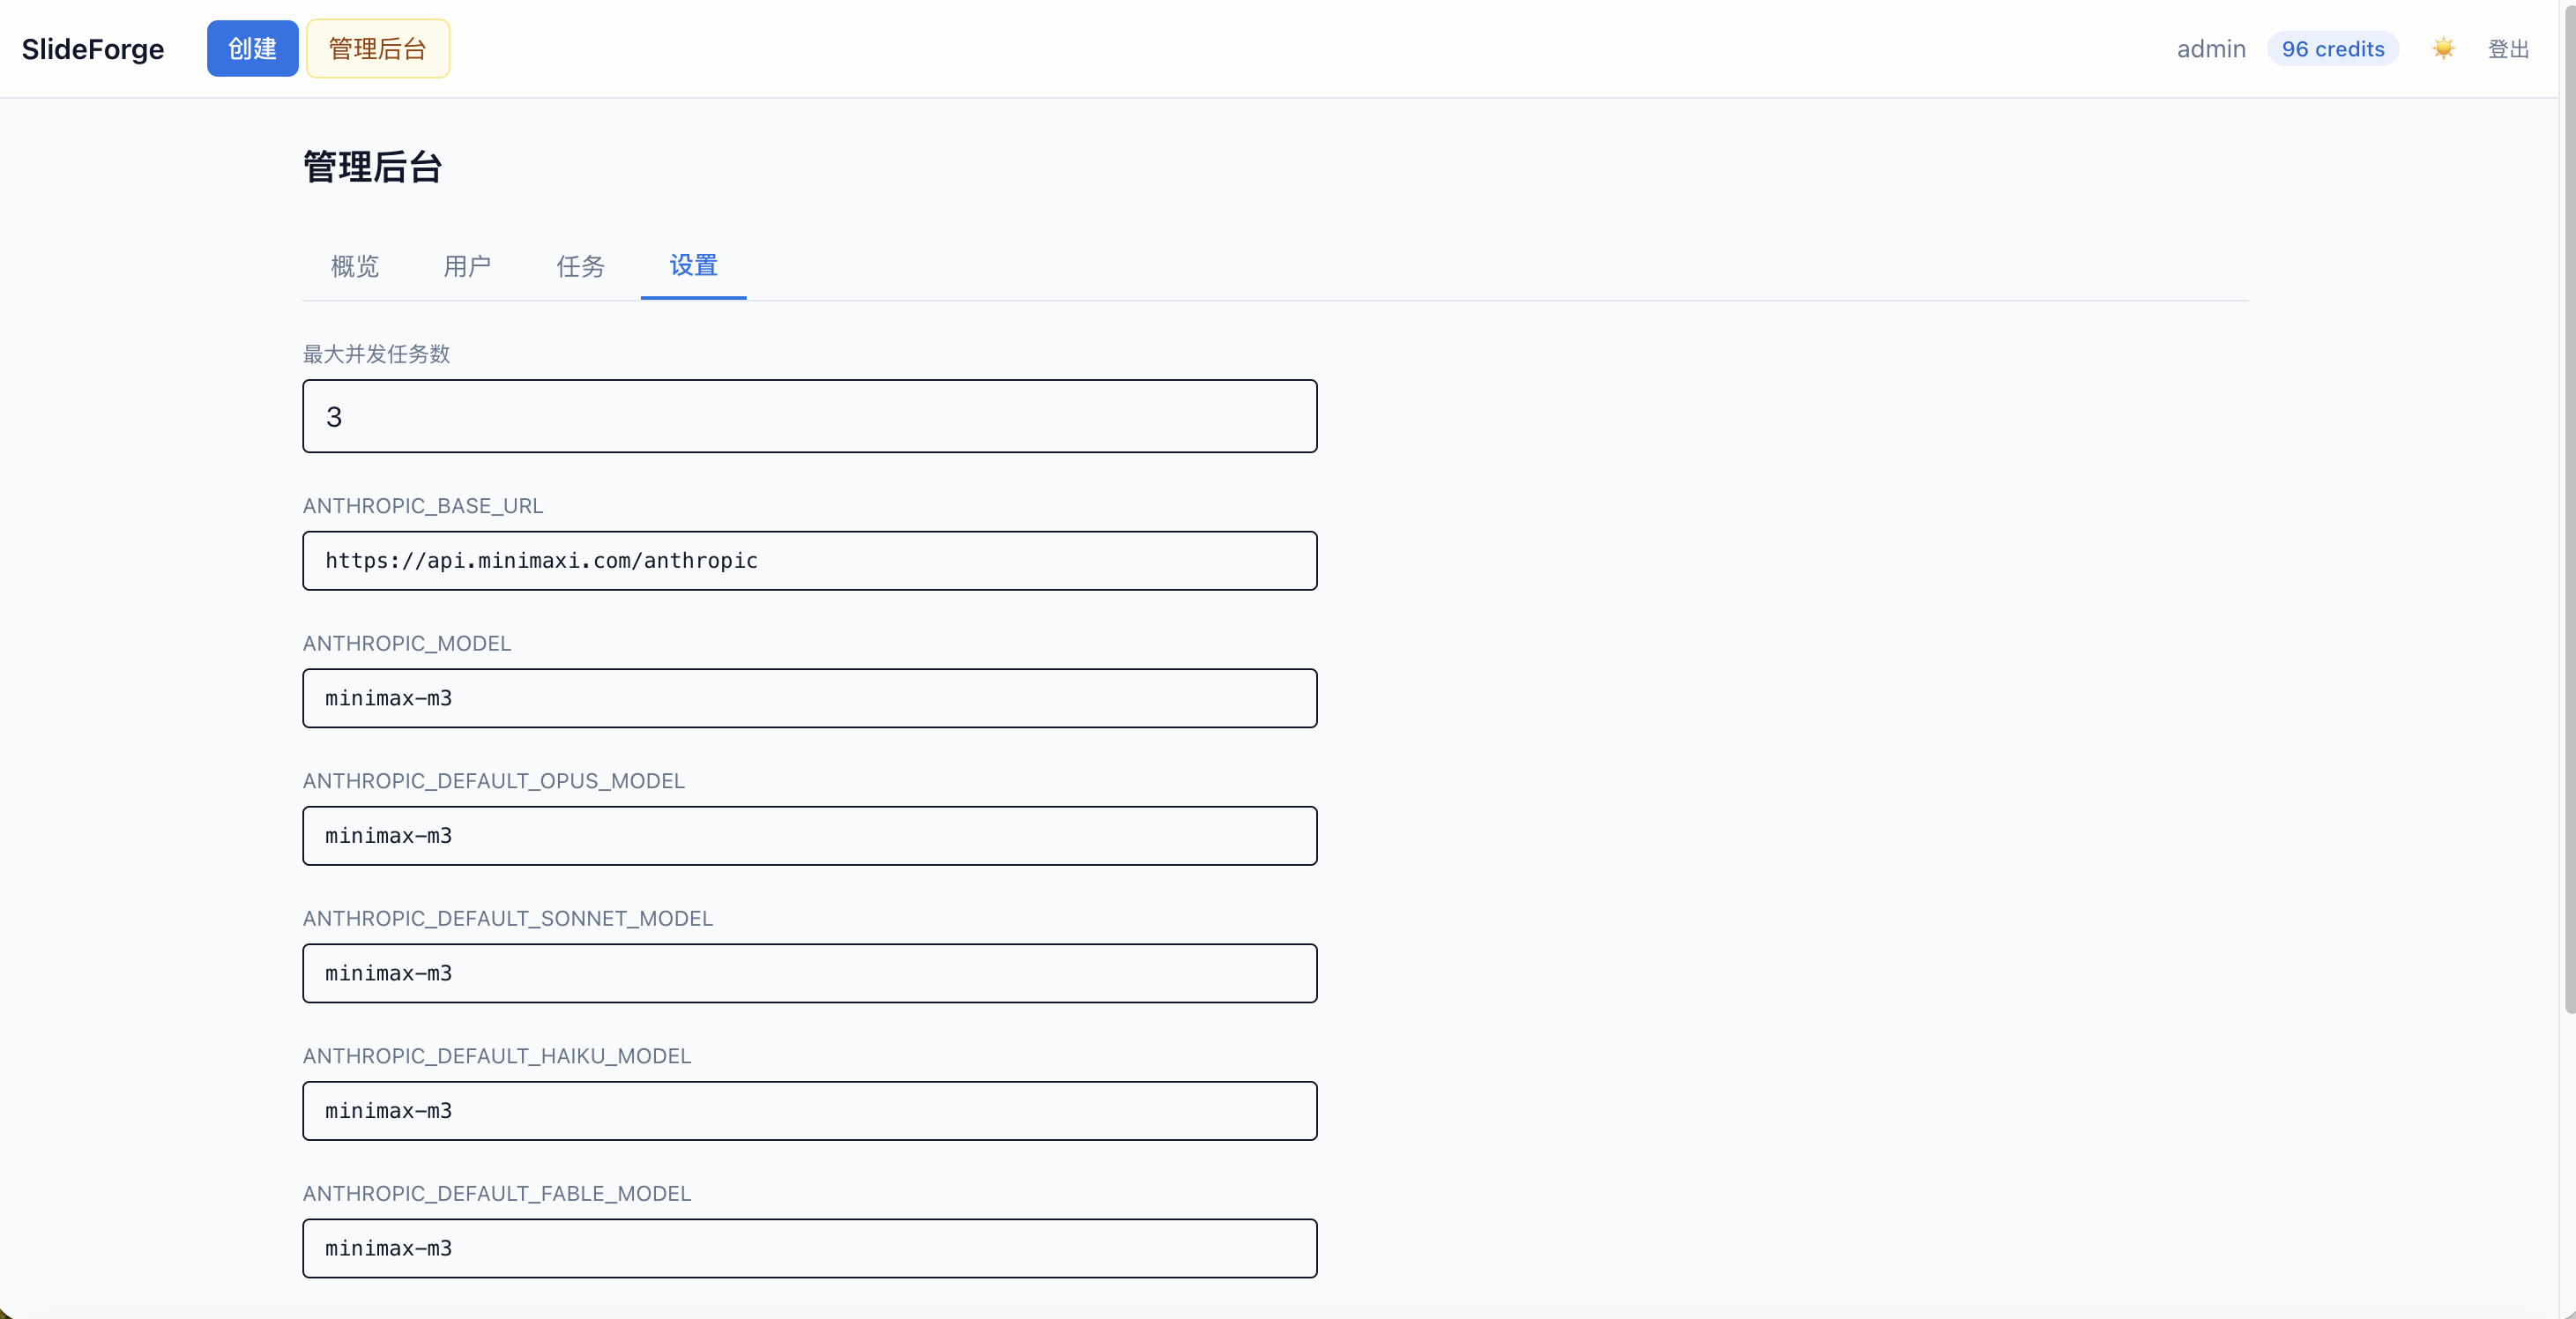
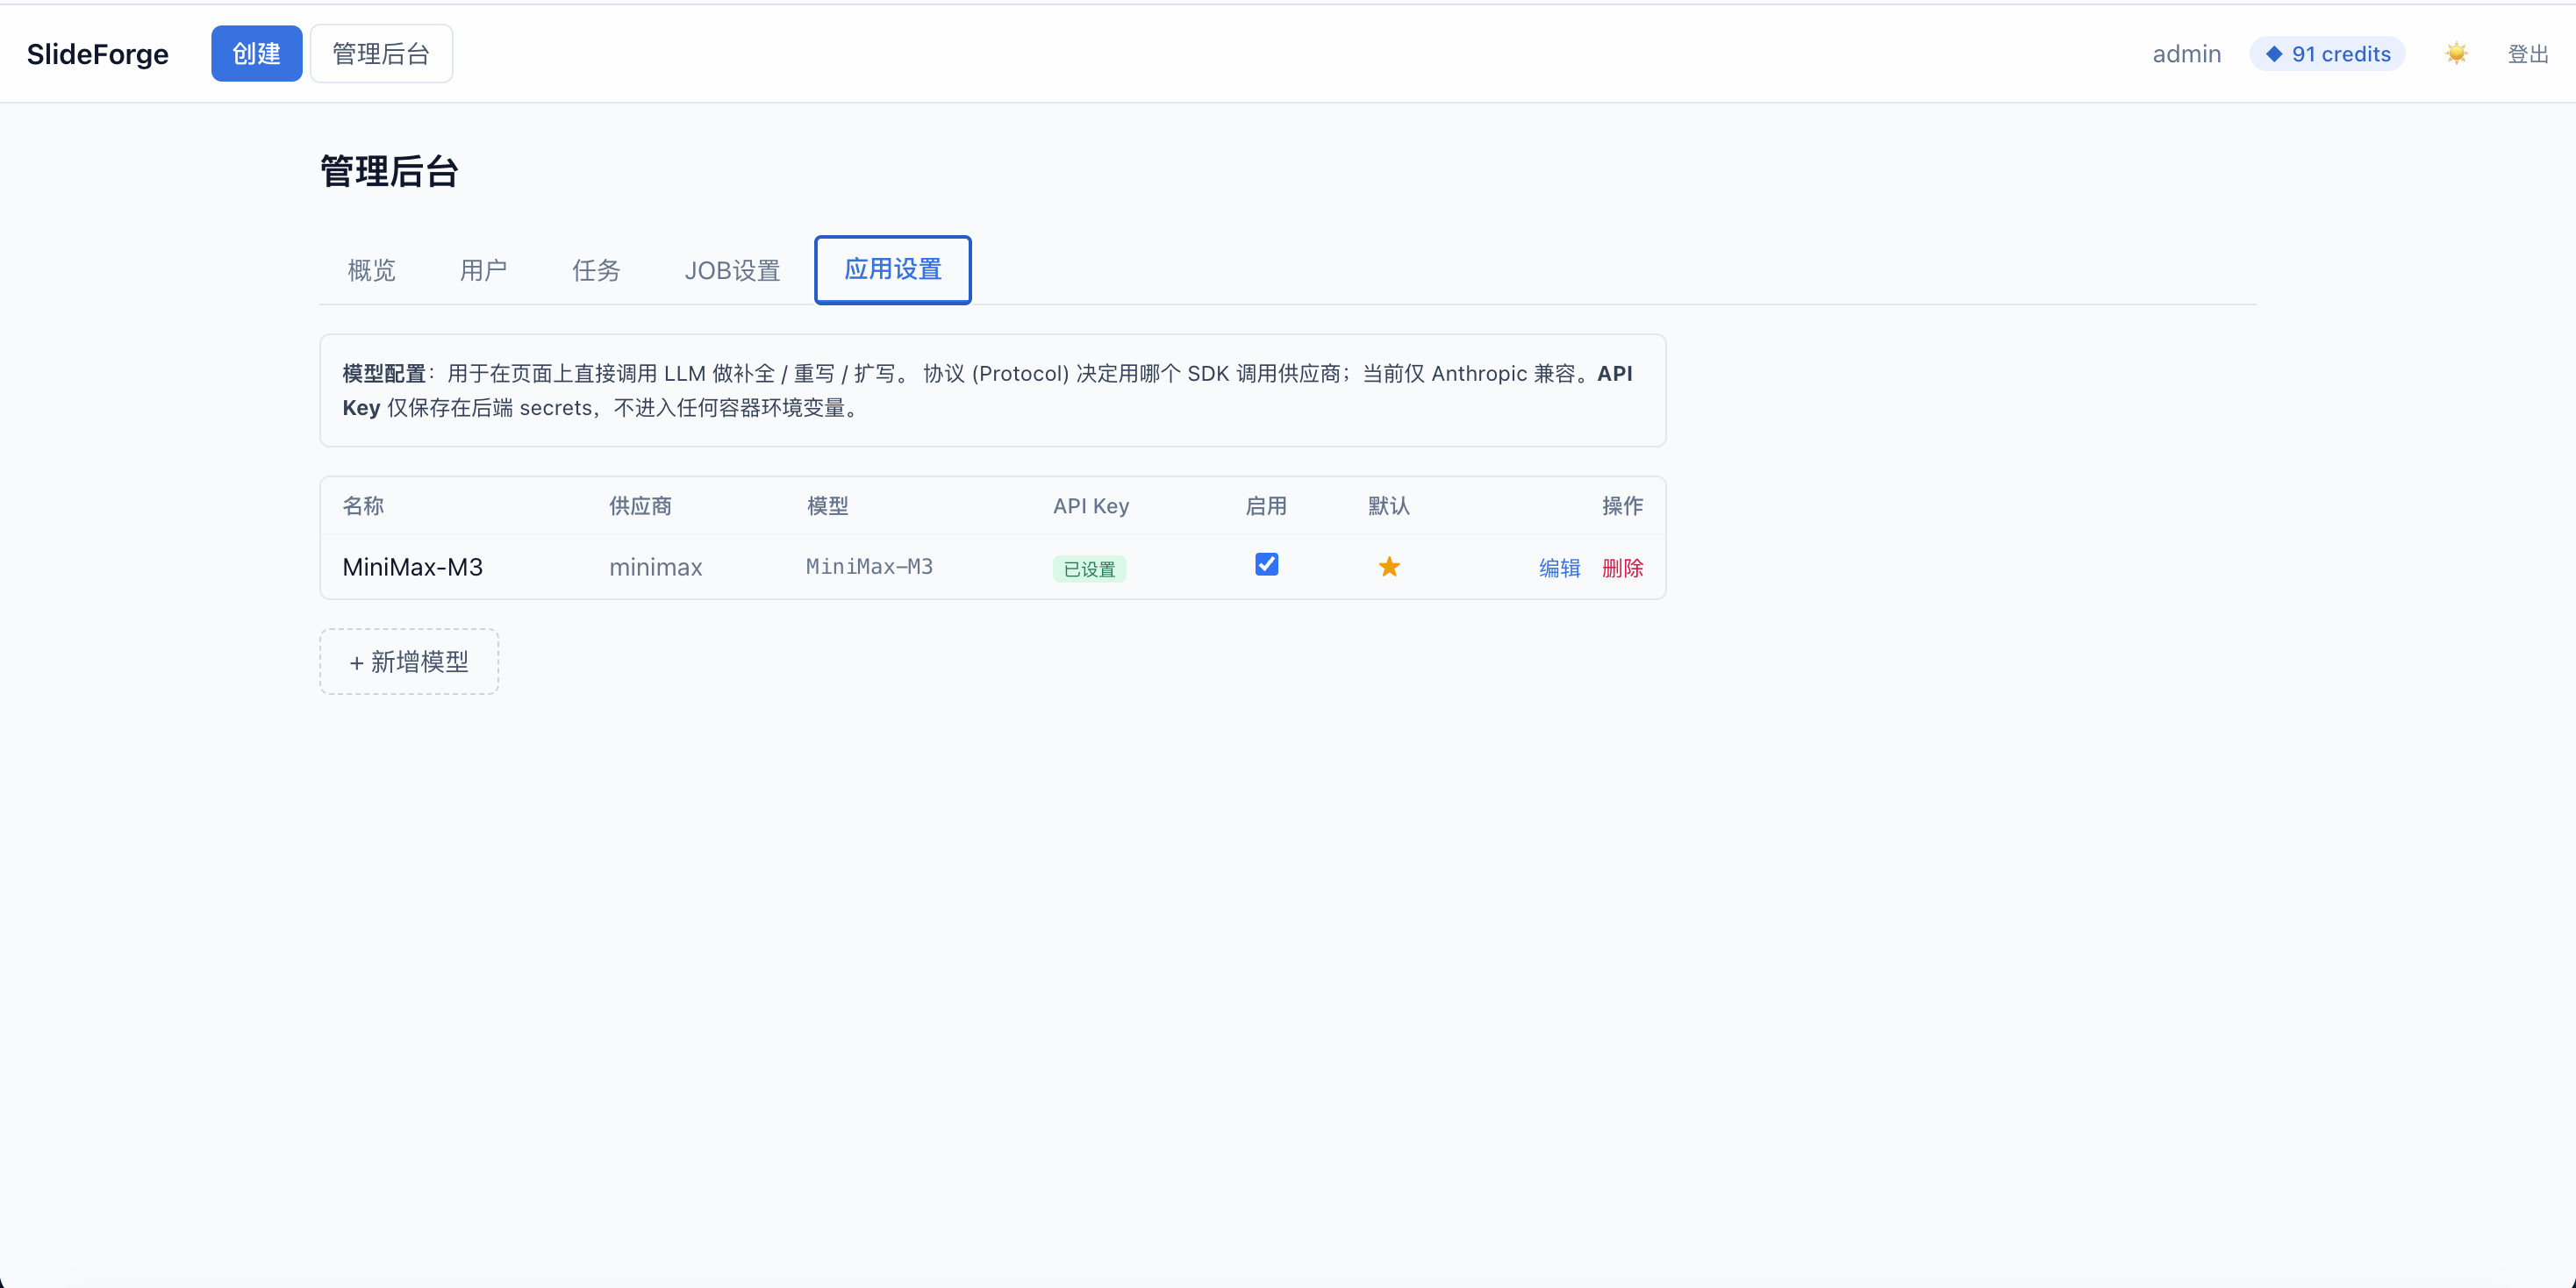
docs: cover NewJobPage composer, app settings, error humanize
UI changes (refreshed screenshots):
- list.png: segmented status filter + count in title
- admin.png: new '应用设置' tab with model config table

README updates reflecting recent code:
- 作品列表: capsule status filter, count in title, SkeletonCard
- 创建任务: 3-section collapsible composer (内容源/视觉调性/素材策略)
  + 高级 drawer; visual_style chip grid; ✨ AI 优化/智能填充
- 管理后台: 5 tabs (新增「应用设置 → 模型配置」)
- 错误文案友好化: humanize_error mapping table
- 失败任务原地重试: POST /api/jobs/{id}/retry
- Admin 管理后台 body: tab 列表同步更新
- 生成行为: 结构化 JobOptions 14 字段说明

diff --git a/README.md b/README.md
@@ -36,7 +36,7 @@
 
 ![作品列表](./images/list.png)
 
-登录后的主页，以卡片形式展示已生成的 PPT，支持搜索和按状态筛选（运行中 / 完成 / 失败）。顶部可进入「创建」与「管理后台」。
+登录后的主页，以卡片形式展示已生成的 PPT。顶部胶囊式状态筛选器可在「全部 / 运行中 / 完成 / 失败」之间切换，标题右侧实时显示作品总数（筛选时变为 `已显示/总数`）。搜索框按项目名 / prompt 模糊匹配。初始加载时显示 6 张 `SkeletonCard` 骨架占位，避免空白闪烁。顶部可进入「创建」与「管理后台」。
 
 ### 卡片悬停与预览
 
@@ -47,6 +47,8 @@
 - **预览**：打开全屏预览（见下图），无需进入详情页即可快速翻看每一页
 - **下载**：直接下载 `.pptx` 文件，等价于详情页的「下载 PPTX」
 
+失败的任务还会显示一行**人话化错误原因**（见 [错误文案友好化](#错误文案友好化)），并提供「重试」入口，无需进入详情页即可原地重跑。
+
 ![预览弹窗](./images/preview.png)
 
 预览弹窗中央展示当前页大图，底部缩略图条可点击跳转；按 `Esc`、点击遮罩或右上角关闭按钮退出。无需等待详情页加载，方便在列表里快速比对多份产物。
@@ -55,21 +57,67 @@
 
 ![创建任务](./images/new.png)
 
-填写项目名称、上传参考素材（PDF / DOCX / PPTX 等）、内容描述；可选语言、场景、受众、语调、页数，提交后启动 agent 生成。
+「创建任务」页采用**三段式可折叠 + 高级抽屉**的结构，把 14 个原本塞成一坨的生成选项拆成渐进式呈现：
+
+| 段落 | 默认 | 包含 |
+|------|------|------|
+| ① 内容源 | 展开 | 项目名 · 主题输入 / 文档输入 切换 · 核心主题（必填）· ✨ **智能填充** · 章节大纲 · 重点强调 |
+| ② 视觉调性 | 折叠 | 基础设置（语言/场景/受众/语调/页数）· ✨ AI 优化 · 视觉风格 chip 网格 · 配色（mode + 品牌色 + 行业） |
+| ③ 素材策略 | 折叠 | ✨ AI 优化 · 图片策略（卡片网格） |
+| 高级（⚙） | 折叠 | 画布 · 叙事模式 · 图标策略 · 公式渲染 · 是否生成演讲者备注 · 长 deck 分阶段模式 |
+
+**✨ 智能填充 / AI 优化**：点一下就用「应用设置」里配的 LLM 把主题（或上传的文档）补全成「大纲 + 重点 + 设计偏好」，避免你逐项点选。前提是 Admin 已在「应用设置 → 模型配置」里配好默认模型并填了 API Key（见下文）。
+
+**视觉风格 chip 网格**（10 种预设 + `auto`）：蓝图 · 工程方案 · 卡通绘本 · 莫兰迪 · 黑白线稿 · 杂志风 · 国风水墨 · 玻璃拟态 · 极简白 · 商务深色。「auto」由 agent 自主挑选，避免默认扁平卡片网格。
 
 ### 任务详情
 
 ![任务详情](./images/detail.png)
 
-点击作品进入详情页，查看任务状态、费用、生成选项；通过 Tab 切换概览、原始输出、时间线、产物；可下载 `.pptx`，底部展示 Agent 各阶段执行进度。
+点击作品进入详情页，查看任务状态、费用、生成选项；通过 Tab 切换概览、原始输出、时间线、产物；可下载 `.pptx`，底部展示 Agent 各阶段执行进度。失败原因按友好化文案展示（见下一节）。
 
 ### 管理后台
 
 ![管理后台](./images/admin.png)
 
-管理员专用（`#/admin`），含概览、用户、任务、设置四个 Tab。设置页可配置并发上限、Docker runner 参数，以及 Claude / Cloud 所需的 `ANTHROPIC_*` 模型与 API 信息；用户与任务管理见下文 [Admin 管理后台](#admin-管理后台) 章节。
+管理员专用（`#/admin`），含 5 个 Tab：
 
-## 前置要求
+| Tab | 说明 |
+|---|---|
+| 概览 | 任务统计、活跃用户、失败任务 |
+| 用户 | 改 role / quota / 重置密码 |
+| 任务 | 全站任务列表、取消、标记失败、手动退款 |
+| JOB 设置 | **每 job 一个 Docker 容器** 的运行参数（并发上限、镜像、内存、CPU、超时） |
+| 应用设置 | **新增** — LLM 模型配置、API Key、协议、启停与默认标记 |
+
+「应用设置 → 模型配置」是后续 AI 智能填充、提示词优化的依赖：
+
+- 支持多个 provider（minimax、deepseek），**当前仅 Anthropic Messages 协议**
+- 表单内联增删改；API Key 仅存于后端 secrets（不进入容器环境变量），列表里只显示「已设置 / 未设置」徽标
+- 校验：name ≤ 64 字符、unique、http(s) base_url、至多 32 个模型、至多 1 个默认
+- 修改后**仅对新启动的请求生效**
+
+详见下文 [Admin 管理后台](#admin-管理后台) 章节与 `Docs/development.md`。
+
+## 错误文案友好化
+
+任务跑挂时，数据库里存的是机器字符串（`stop_reason=...`、`auto-resume bailed`、`docker image ... not found`、`watchdog: ...`）。`backend/runner/errors.py::humanize_error` 在写库前把它们翻成**人话**，UI 直接展示友好文案而不是堆栈：
+
+| 机器串（前缀/子串） | 友好文案 |
+|---|---|
+| `auto-resume bailed` | AI 未生成有效内容，请调整需求后重试 |
+| `claude CLI 失败` / `auto-resume claude CLI 失败` | AI 服务调用失败，请稍后重试 |
+| `stop_reason=...` | AI 生成中断，请重试 |
+| `runner exception:` / `resume exception:` | 生成过程异常，请重试 |
+| `watchdog:` | 生成超时未响应，请重试 |
+| `server restart interrupted` | 服务重启中断了任务，请重试 |
+| `docker daemon is not available` / `docker image ... not found` / ... | 运行环境未就绪，请联系管理员 |
+
+未命中任何模式的串**原样透传**（不吞错），对人话已做幂等处理。错误信息在卡片、详情页、Admin 任务列表三处一致展示。
+
+## 失败任务原地重试
+
+`POST /api/jobs/{id}/retry`（仅限 `failed` / `cancelled` 状态）原地重跑，**沿用原始 prompt + 选项**，不必重新填表。WebUI 在「我的作品」卡片底部、任务详情页顶部各提供一个「重试」入口；credits 不足时按钮 disabled。重试在数据层复用同一 job_id、events 表追加新阶段记录，旧失败原因保留在事件流中可回看。
 
 | 依赖 | 版本建议 | 用途 |
 |------|----------|------|
@@ -226,11 +274,12 @@ uvicorn 进程（API 层）
 首次启动会自动创建默认管理员：**账号 `admin`，密码 `admin`**（已存在则不覆盖密码）。
 
 1. 登录后侧边栏出现「管理后台」，或直接访问 `#/admin`
-2. 可在设置页配置：
-   - **最大并发审核任务数 / 启动容器数上限**（1–50）
-   - Docker runner（镜像、内存、CPU、超时等）
-   - **Claude Code 容器环境变量**（`ANTHROPIC_*` 模型/API、Secrets、自定义 env）
-   - Watchdog 参数
+2. 5 个 Tab：
+   - **概览**：任务统计、活跃用户、失败任务
+   - **用户**：改 role / quota / 重置密码
+   - **任务**：全站任务列表、取消、标记失败、手动退款、原地重试
+   - **JOB 设置**（原「设置」）：最大并发数（1–50）、Docker runner（镜像、内存、CPU、超时）、**Claude Code 容器环境变量**（`ANTHROPIC_*` 模型/API、Secrets、自定义 env）、Watchdog 参数
+   - **应用设置**（新增）：LLM **模型配置**（provider / protocol / base_url / model / API Key / 启停 / 默认），是「✨ 智能填充」「AI 优化」「提示词优化」等 Web 端 LLM 调用的来源
 3. 用户管理：改 role/quota/重置密码
 4. 任务管理：全站列表、取消、标记失败、手动退款
 
@@ -257,7 +306,21 @@ PPT_WEB_JWT_SECRET=<上一步输出>
 - 不会再弹「八点确认」面板
 - 如果中途需要调整，改 prompt 里的描述重新创建任务即可
 
-如果你需要中途停一下让 agent 问几个问题，可以自己加 prompt 指令（例如「在选定风格前先问我两个问题」），agent 会遵守 prompt 而不是写死的系统行为。
+### 结构化生成选项
+
+「创建任务」页（详见 [创建任务](#创建任务)）把生成选项分成了 **14 个字段**（见 `JobOptions` schema），以结构化中文段落注入 prompt 头部，让 agent 直接读而不必猜默认值：
+
+- **画布与结构**：canvas、mode、page_count
+- **视觉调性**：visual_style、color_mode、brand_hex、industry
+- **图片策略**：image_strategy、icon_strategy
+- **内容定位**：core_topic、outline、key_points
+- **输出约束**：include_speaker_notes、split_mode、formula_policy
+
+如果应用设置里没配 LLM，所有「✨ AI 优化 / 智能填充」按钮会降级为 disabled 状态并提示先去 Admin 配置；其他字段照常手动可选。
+
+### 失败重试
+
+失败 / 取消的任务可以**原地重试**（见 [失败任务原地重试](#失败任务原地重试)），沿用原始 prompt 与全部选项；不再需要手动复制粘贴重新创建。
 
 ## ppt-master 是 submodule
 